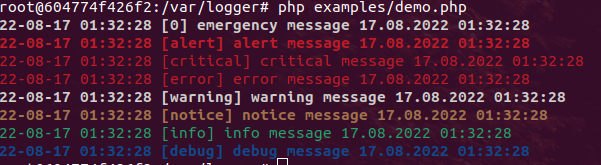
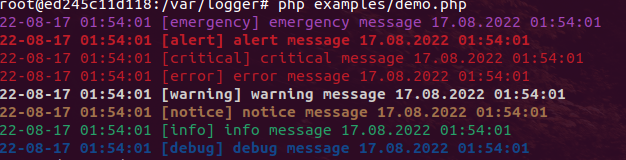
Add the cyan color for emegency messages

diff --git a/src/VPA/Logger/ConsoleLogger.php b/src/VPA/Logger/ConsoleLogger.php
@@ -136,6 +136,9 @@ class ConsoleLogger extends AbstractLogger
         $text = $this->interpolate($message, $context);
         $color = '1;37';
         switch ($level) {
+            case 'emergency':
+                $color = '0;35';
+                break;
             case 'info':
                 $color = '0;32';
                 break;
